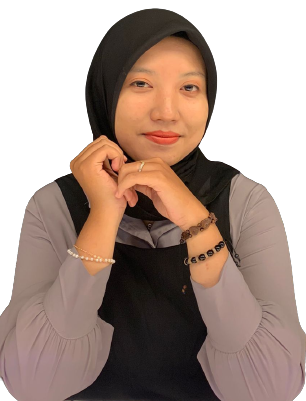
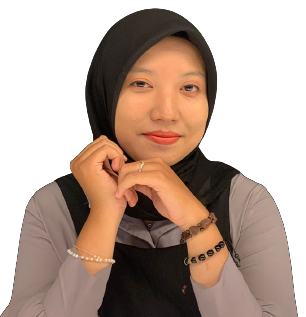
update

diff --git a/css/about_us.css b/css/about_us.css
@@ -191,6 +191,7 @@ h1.title2 {
   height: 200px;
   border-radius: 99px;
   box-shadow: 3px 3px 5px 2px rgb(0, 0, 0, 0.5);
+  object-fit: cover;
 }
 
 /*Footer*/
@@ -491,14 +492,14 @@ ul li a {
   .aboutus-container {
     grid-template-columns: repeat(2, 1fr);
     width: 100%;
-    gap: 5px;
+    gap: 20px;
   }
 
   .aboutus-item {
     max-width: 130px;
     width: 100%;
-    margin-inline: 30px;
     height: 100%;
+    margin-bottom: 10px;
   }
 
   .aboutus-item img {

diff --git a/about_us.html b/about_us.html
@@ -84,7 +84,7 @@
               </div>
           </div>
           <div class="aboutus-item">
-              <img src="img/Fadhil.png" alt="Fadhil">
+              <img src="img/coba.png" alt="Fadhil">
               <h4>Ahmad Fadhil Kurniahadi Al Jufri</h4>
               <p>Project Leader</p>
           </div>
